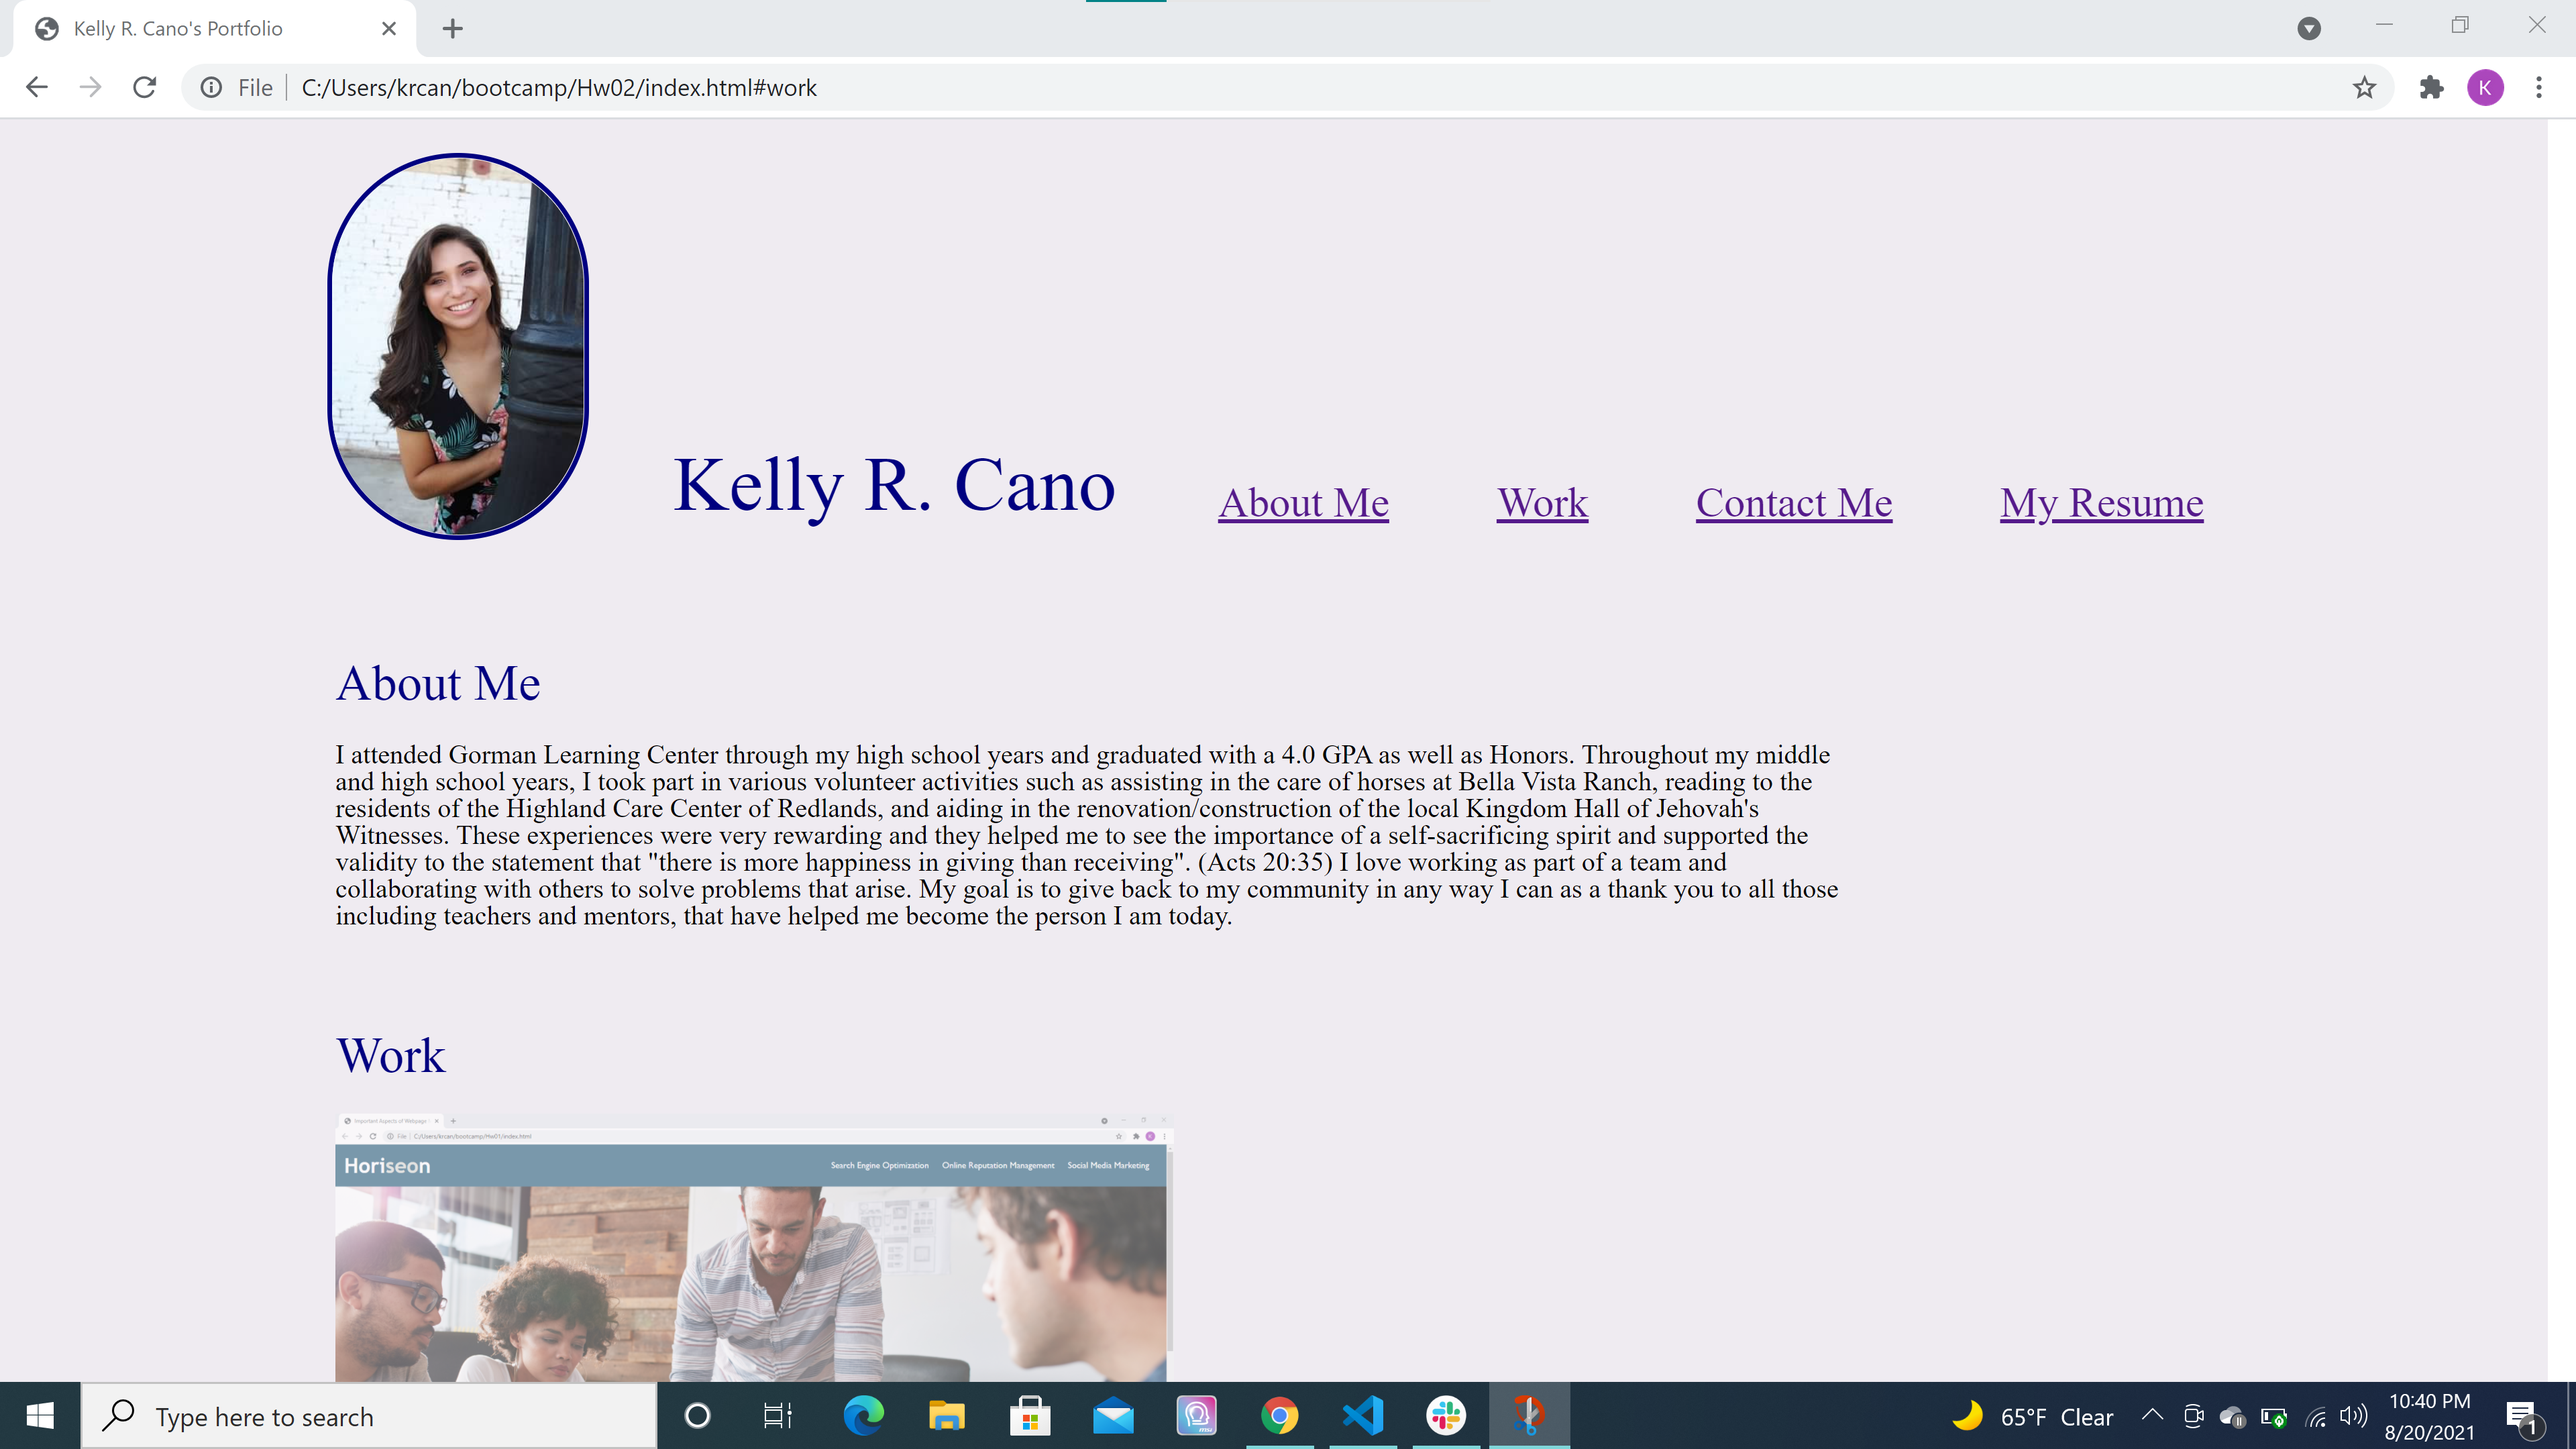
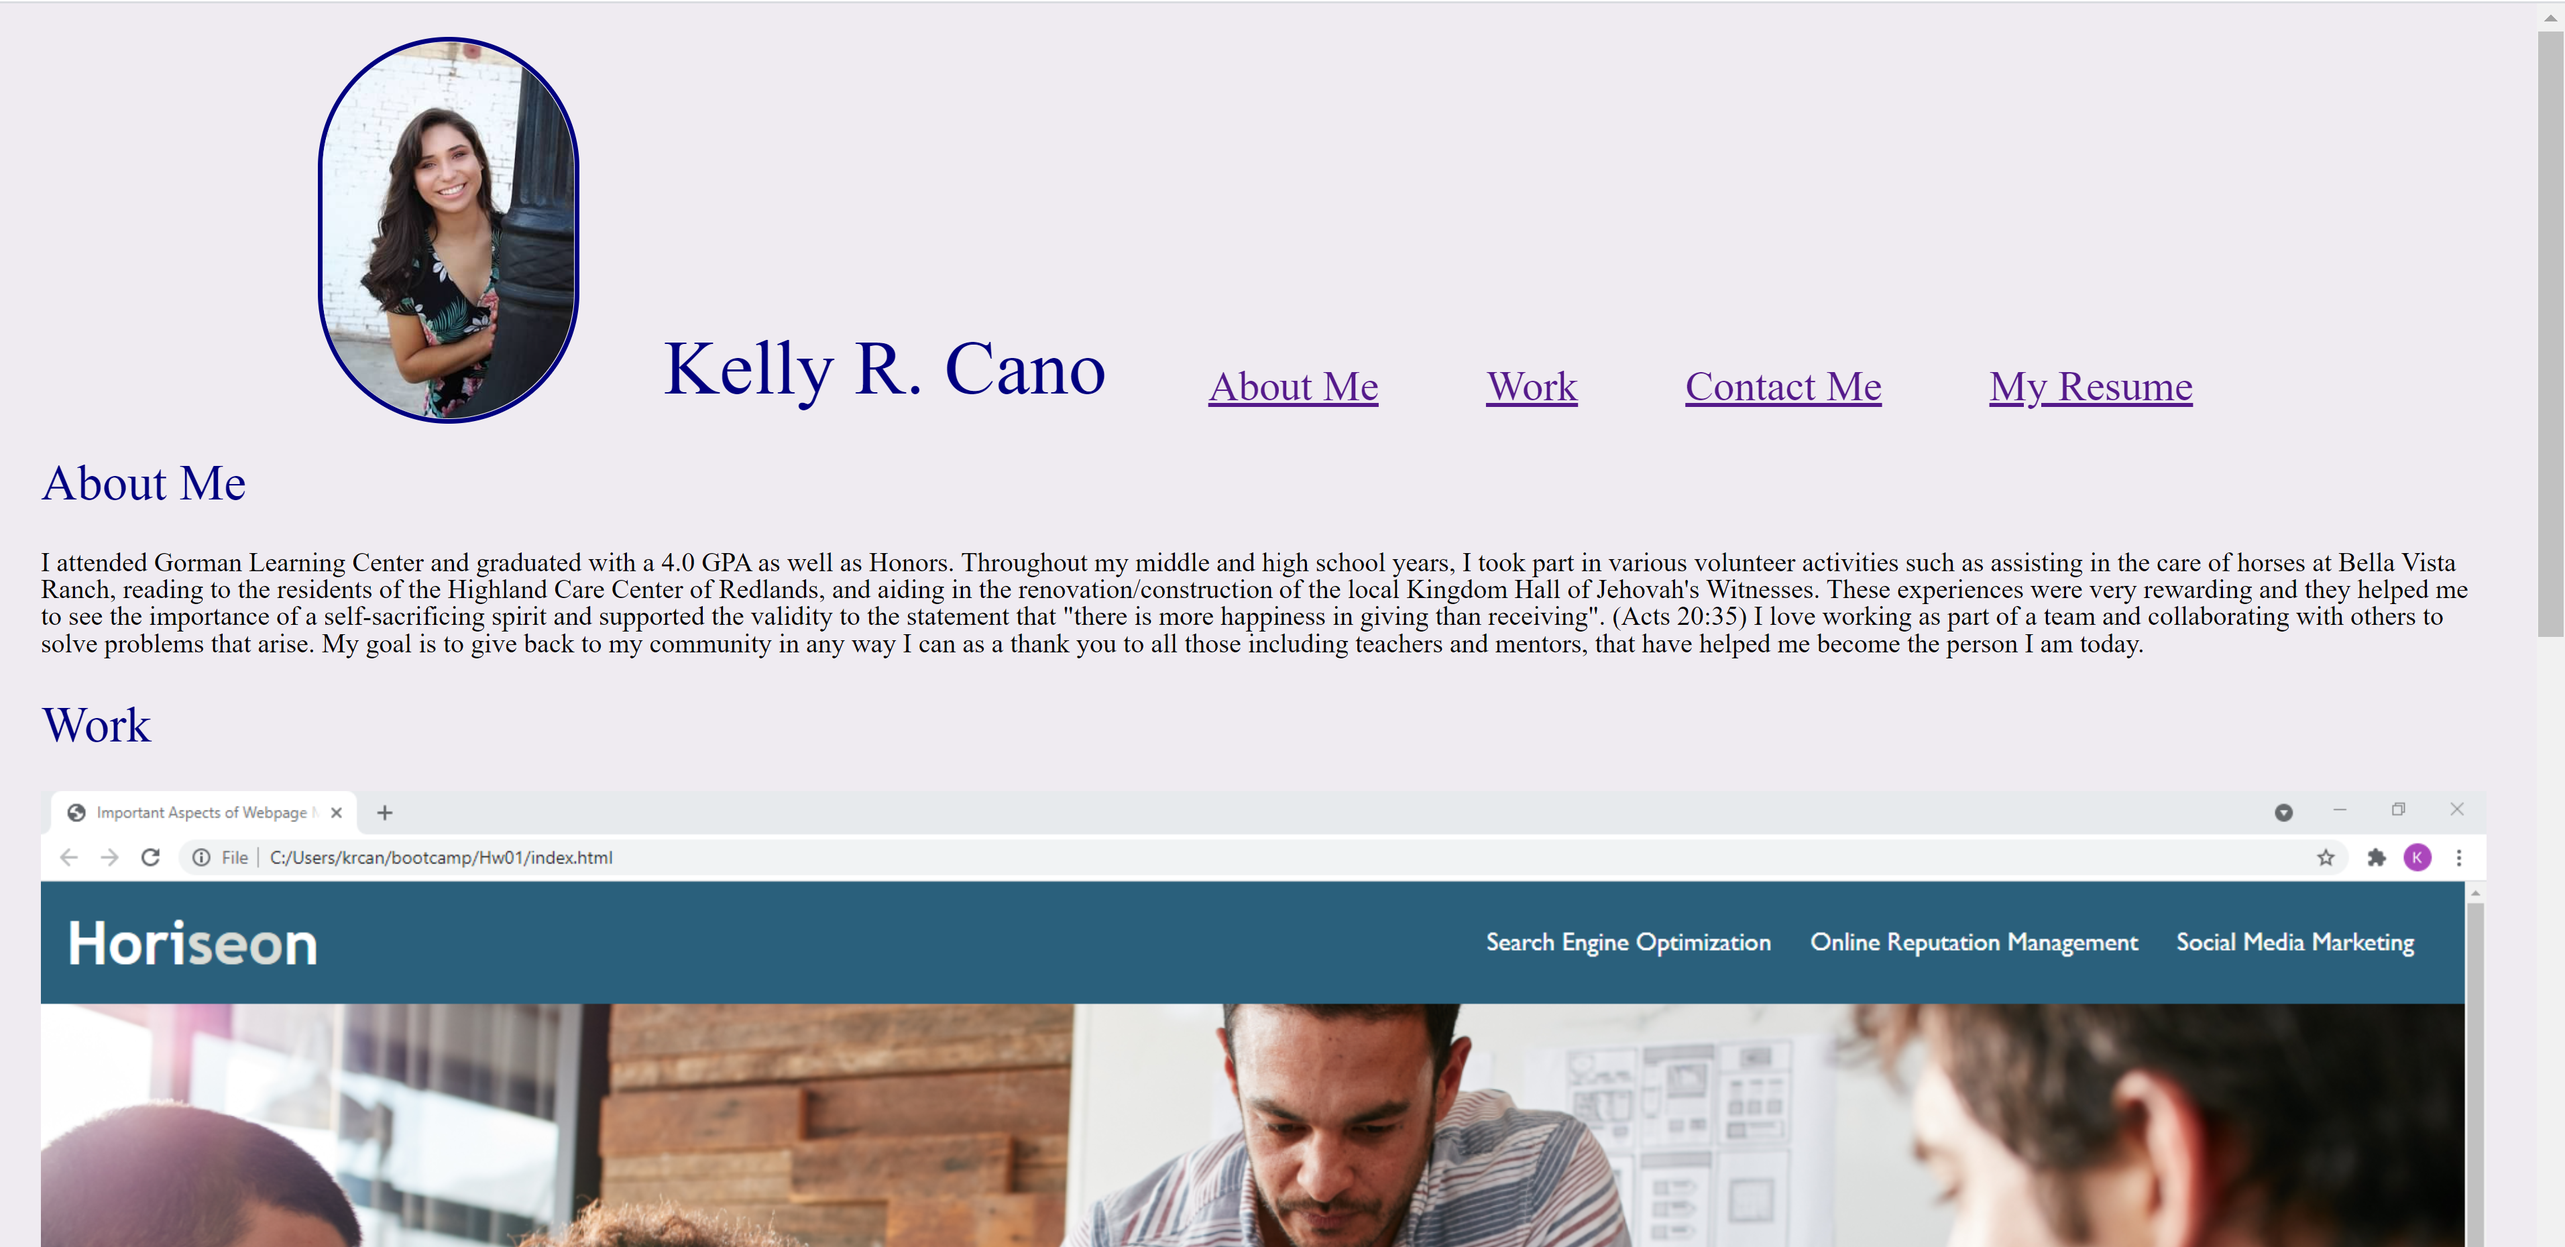
updated work images and README

diff --git a/assets/style.css b/assets/style.css
@@ -1,3 +1,7 @@
+*{
+
+   /* outline: 5px solid red; */
+}
 
 :root{
 
@@ -6,6 +10,7 @@
 }
 
 body {
+    
 background-color: rgb(239, 235, 241);
 
 }
@@ -13,7 +18,8 @@ background-color: rgb(239, 235, 241);
 h2 {
     font-size: 30px ;
     color: navy;
-
+    padding-bottom: 25px ;
+    
 }
 .header h1{
     font-size: 46px ;
@@ -36,8 +42,7 @@ header, li{
     font-size: 25px;
     display: inline-flex;
     margin: 30px 30px ;
-    
-    
+       
 }
 
 #profileImg {
@@ -47,31 +52,59 @@ header, li{
     border:3px solid var(--fontColor);
 
 }
-
-#workImg{
-    width: 500px;
-    opacity: .6;
+.workImgs{
+    display: flex;
+    flex-wrap: wrap;
 }
-#workImg:hover{
+
+#largeImg{
+    background-image: url("../assets/docs/Myscreenshot.png");
+    background-repeat: no-repeat;
+    width: 100%;
+    height: 500px;
+    /* opacity: .6; */
+    background-size: cover;
+    margin-bottom: 25px;
+    background-position: top center;
+    position: relative;
+}
+/* #largeImg:hover{
     opacity: 1;
     cursor: grab;
+} */
+
+.imgTitle{
+   
+  position: absolute;
+  width: 20%;
+  bottom: 20px;
+  right: 20px;
+  background-color:white;
+  color: black;
+  padding-left: 25px;
+  padding-right: 25px;
+  width: 20%;
 }
 
-.imgs2{
-     width: 250px;
-     opacity: .6;
+/* img2 adjusts all of the project # pics*/
+
      
+
+ .imgs2{
+     background-image: url("https://images.pexels.com/photos/69432/pexels-photo-69432.jpeg?auto=compress&cs=tinysrgb&dpr=1&w=500");
+     width: 49%;
+     height: 300px;
+     background-repeat: no-repeat;
+     background-position:center center;
+     margin-left: 0px;
+     position: relative;
+     margin-bottom: 25px;
+     margin-left: .5%;
  }
- .imgs2:hover {
+ /* .workImgs:hover {
     opacity: 1;
     cursor: grab;
-}
-.content-div img{
-    display:flex;
-    padding-top: 25px;
-    
-}
-
+} */
 
 nav li a:hover {
     color:var(--hover);
@@ -81,16 +114,19 @@ nav li a:hover {
 
 /* controls how much of the page the content covers, font and margins */
 section {
-    width: 60% ;
-    margin: 50px 300px 0px 200px;
+    margin: 0px 30px 0px 30px ;
+    display: flex;
+    flex-direction: column;
+
 
 }
-    
-    
+
 /* padding between h2 and div element below */
 .content-div{
-    padding-top: 20px;
-    padding-bottom: 10px;
+  
+    padding-bottom: 25px;
+    display: flex;
+    justify-content: space-evenly;
 }
 .content-div a:hover{
     color: var(--hover);
@@ -109,57 +145,84 @@ footer {
 
 
 @media screen and (max-width: 768px){
-    
+    h1{
+        flex-wrap: nowrap ;
+    }
     #profileImg{
-        
-        width: 100px;
-        margin-left: 155px;
+        display: flex;
+        width: 150px;
+       ;
        
     }
     .navbar ul{
         display: flex;
+        flex-wrap: wrap;
         flex-direction: row;
         justify-content: space-between;
-        margin-left: 175px;
+        
        
     }
-    
 
-    header h1{
-
-        margin-left: 200px;
-    }
-    #workImg{
+    #largImg{
+        display: flex;
         width:500px;
-        margin-right: 50px;
+
+     
     }
     .imgs2{
-        width: 300px;
+        
+        width: 49%;  
+        flex: 50%;
     }
 
+    .imgs3{
+        width: 49%;
+        flex: 50%;
+    }
     footer{
-        margin-left: 200px;
+        display: flex ;
+        justify-content: center;
+        
+       
     
     }
    
     
 }
-@media screen and (max-width: 588px){
+@media screen and (max-width: 636px){
+
+    .header{
+        align-items: center;
+        flex-direction: column;
+    }
      header h1{
-         margin-left: 250px;
-         font-size: 25px;
+         display: flex;
+        
+      
      }
      .navbar ul{
-         margin-left: 265px;
+         display: flex;
+
+         flex-direction: column;
+       
+        
      }
      #profileImg{
-         margin-left: 250px;
+         display: flex;
+         
+        
      }
-     #workImg{
-         width: 350px;
+
+     .imgs{
+        display: flex;
+        flex-direction: column;
+        width: 49%;
+        flex: 50%;
      }
-     .imgs2{
-         width:180px;
+     footer{
+         display: flex;
+         justify-content: center;
+       
      }
 }
 

diff --git a/index.html b/index.html
@@ -35,7 +35,6 @@
     <main>
     <!-- Quick description about me -->
         <section >
-          <article>
             <h2 id="about-me">About Me</h2>
             <div class="content-div">
               <p>
@@ -47,52 +46,53 @@
                 community in any way I can as a thank you to all those including teachers and mentors, that have helped me become the person I am today.
               </p>
             </div>
-        </article>
       </section>
       <!-- links to my work  -->
       <section>
-        <article>
-          <h2 id="work">Work</h2>
-            <div class="content-div">
-            <ul>
-              <li>
-              </li>
-                  <a  href="https://krcano.github.io/Hw01/" target="_blank"> <img id="workImg" src="./assets/docs/Myscreenshot.png"/>Code Refactor-Horiseon</a>
-              </li>
-              <li>
-                <a href="#"><img class="imgs2" src="assets/docs/sunflower.jpg"/>Project #2</a>
-              </li>
-              <li>
-                <a href="#"><img src="./assets/docs/laptop.jpg" class="imgs2">Project #3</a>
-              </li>
-              <li>
-                <a href="#"><img src="./assets/docs/laptop.jpg" class="imgs2">Project #4</a>
-              </li>
-              <li>
-                <a href="#"><img src="./assets/docs/laptop.jpg" class="imgs2">Project #5</a>
-              </li>
-              <!-- <p>Code Refactor-Horiseon</p> -->
-            </ul>
+        <h2 id="work">Work</h2>
+         <div class="workImgs">
+            <a id="largeImg" href="https://krcano.github.io/Hw01/" target="_blank">
+              <figure>
+                <h3 class="imgTitle">Code Refactor-Horiseon</h3>
+              </figure>
+            </a>
+
+            <a class="imgs2" href="#">
+              <figure >
+                <h3 class="imgTitle">Sample Project 1</h3>
+              </figure>
+            </a>
+              
+            <a class="imgs2" href="#">
+              <figure>
+                <h3 class="imgTitle">Sample Project 2</h3>
+              </figure>
+            </a>
           </div>
-      </article>
-    </section>
+      </section>
 
 <!-- Contact info -->
     <section >
-      <article >
         <h2 id="contact-me"> Contact Me</h2>
-        <div  class="content-div">
+        <ul class="content-div">
+        
           <!-- separating the contact links -->
-          <a href="tel:9097975814">Call Me 📱</a>    
-          <a href="mailto:krcano2001@gmail.com" target="_blank">Email Me 📧</a>
-          <a href="https://github.com/Krcano" target="blank">Find me at Github</a>
 
+          <li>
+          <a href="tel:9097975814">Call Me 📱</a>   
+          </li>
+
+          <li>
+          <a href="mailto:krcano2001@gmail.com" target="_blank">Email Me 📧</a>
+          </li>
+
+          <li>
+          <a href="https://github.com/Krcano" target="blank">Find me at Github</a>
+          </li>
         </div>
-    </article>
-  </section>
+    </section>
  
     </main>
-  </div>
 
 <footer>
     <span>💗Thanks for visiting!</span>

diff --git a/README.md b/README.md
@@ -3,8 +3,7 @@
 
 ## Description
 
-
-
+This project is my personal portfolio. Currently  I am a student and I'm still in the learning process so I have only one link to my work so far however, I have a few features on my portfolio I'd like to highlight. The page has a the ability to scroll to the corresponding spot on the page according to which naviagation link you press. The images under the work subheading will take you to the site where my project is located. Under 'Contact me' the phone number, email and github link should take you directly to how you can contact me. Truth be told, I have put a lot of blood, sweat, and tears in this portfolio page and personally there are some things I would like to change/ fix but really resumes and portfolios will continually be a work in progress throughout my career and will never just be finished.
 
 ## Setup:
 To get started, install it locally by cloning the repo to your computer by copying the ssh key. 
